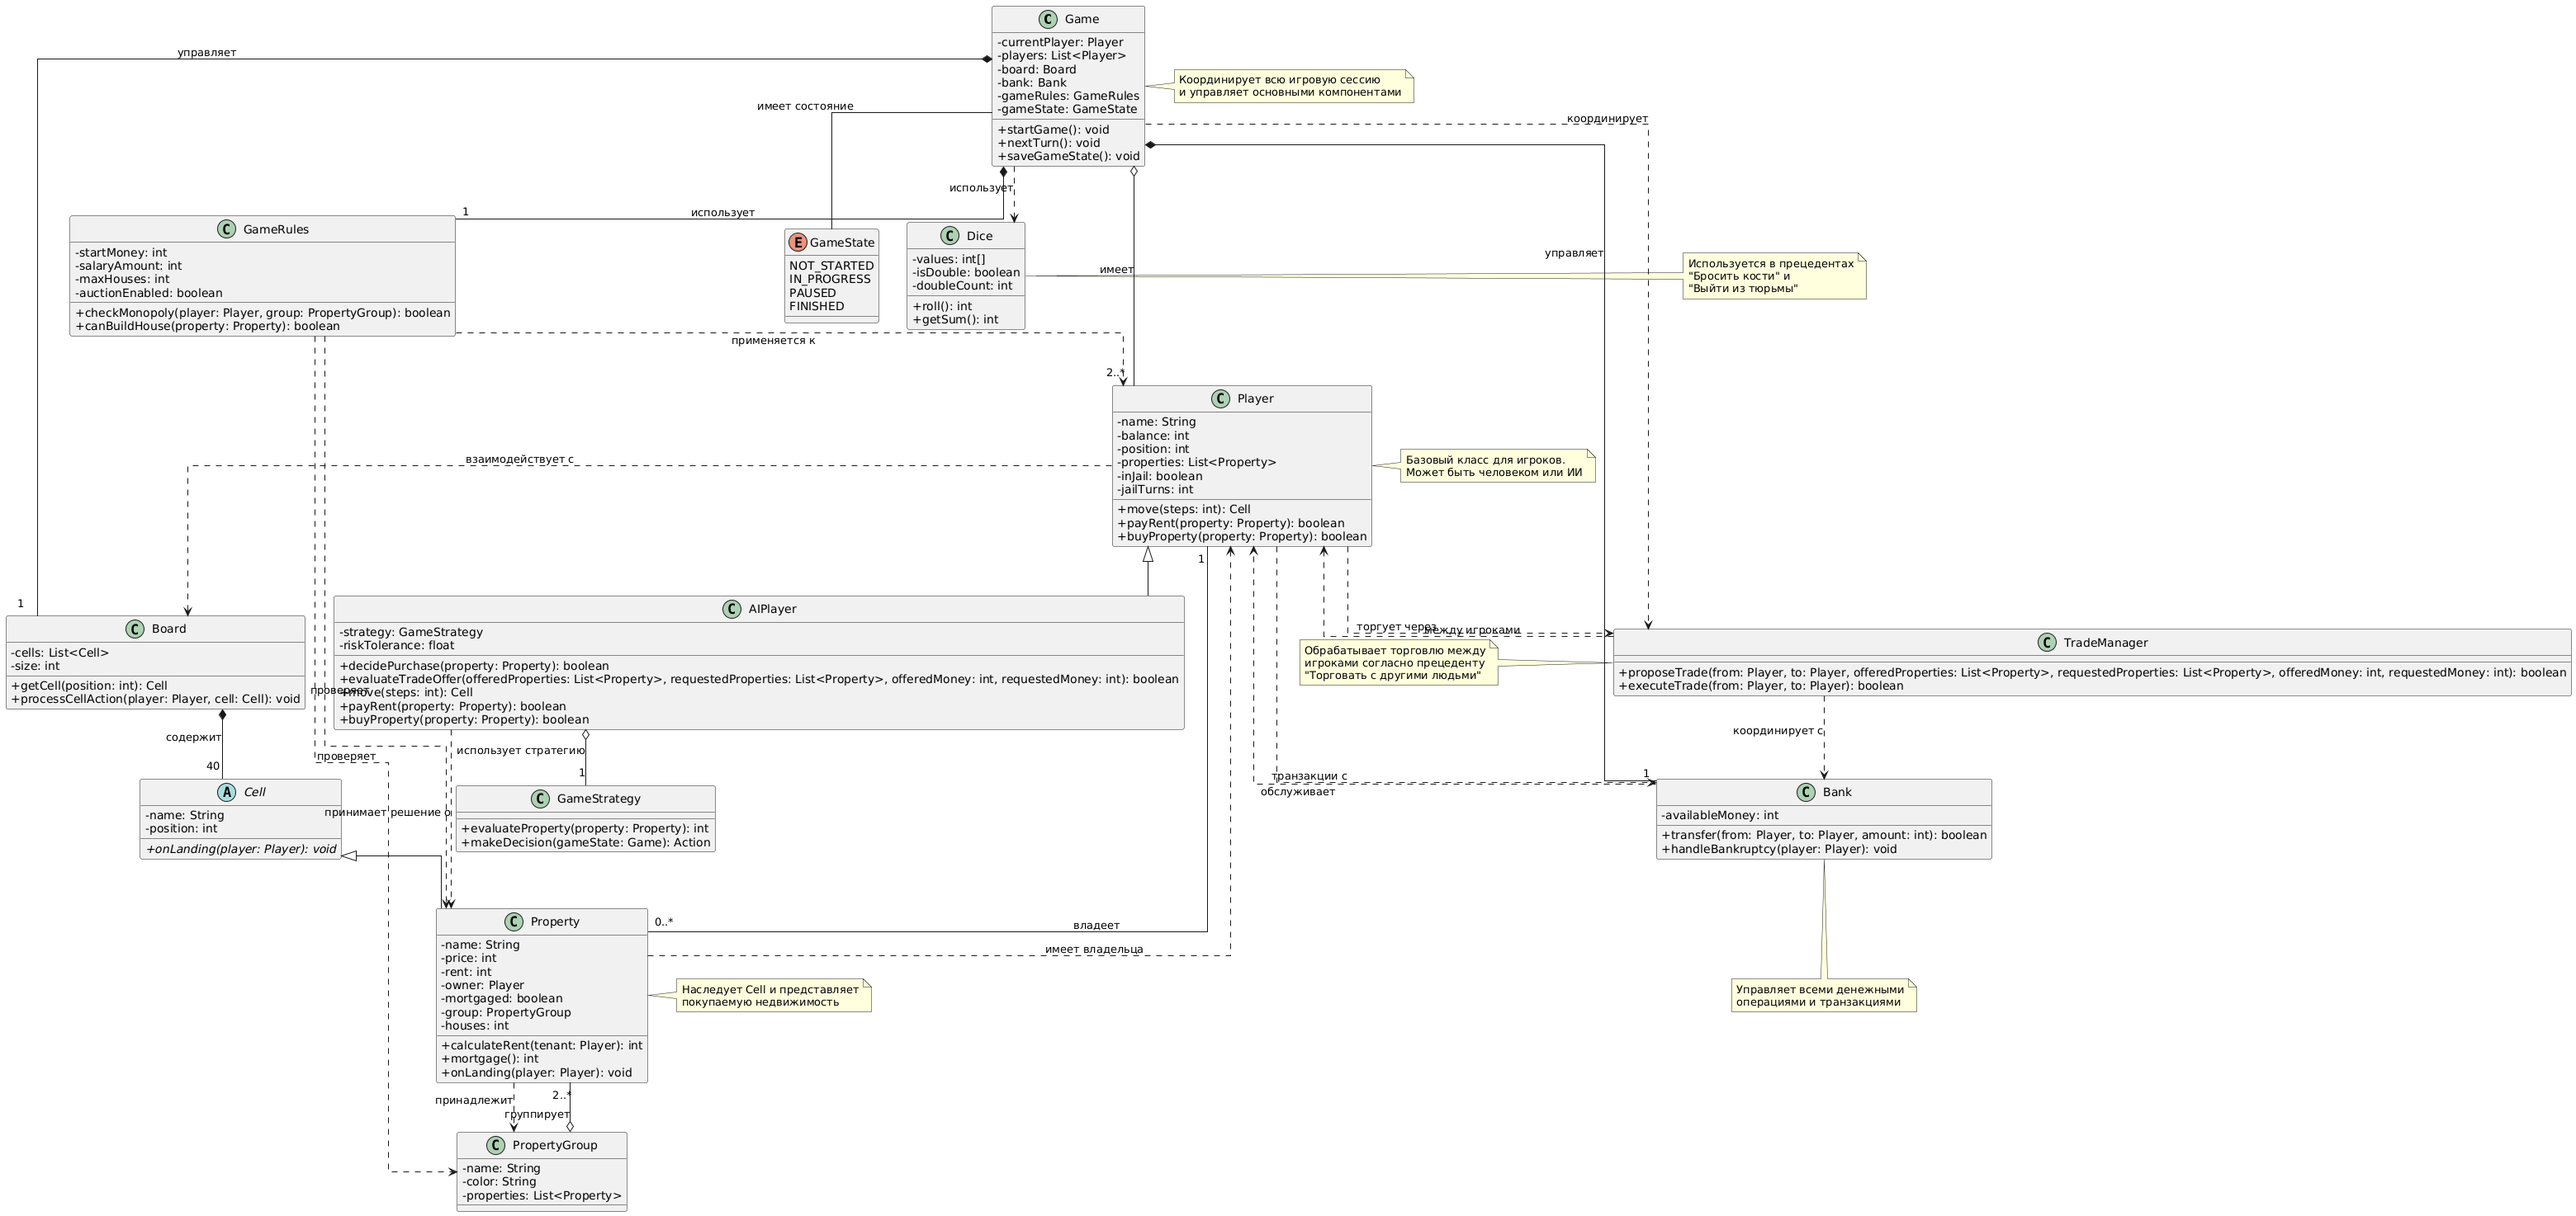
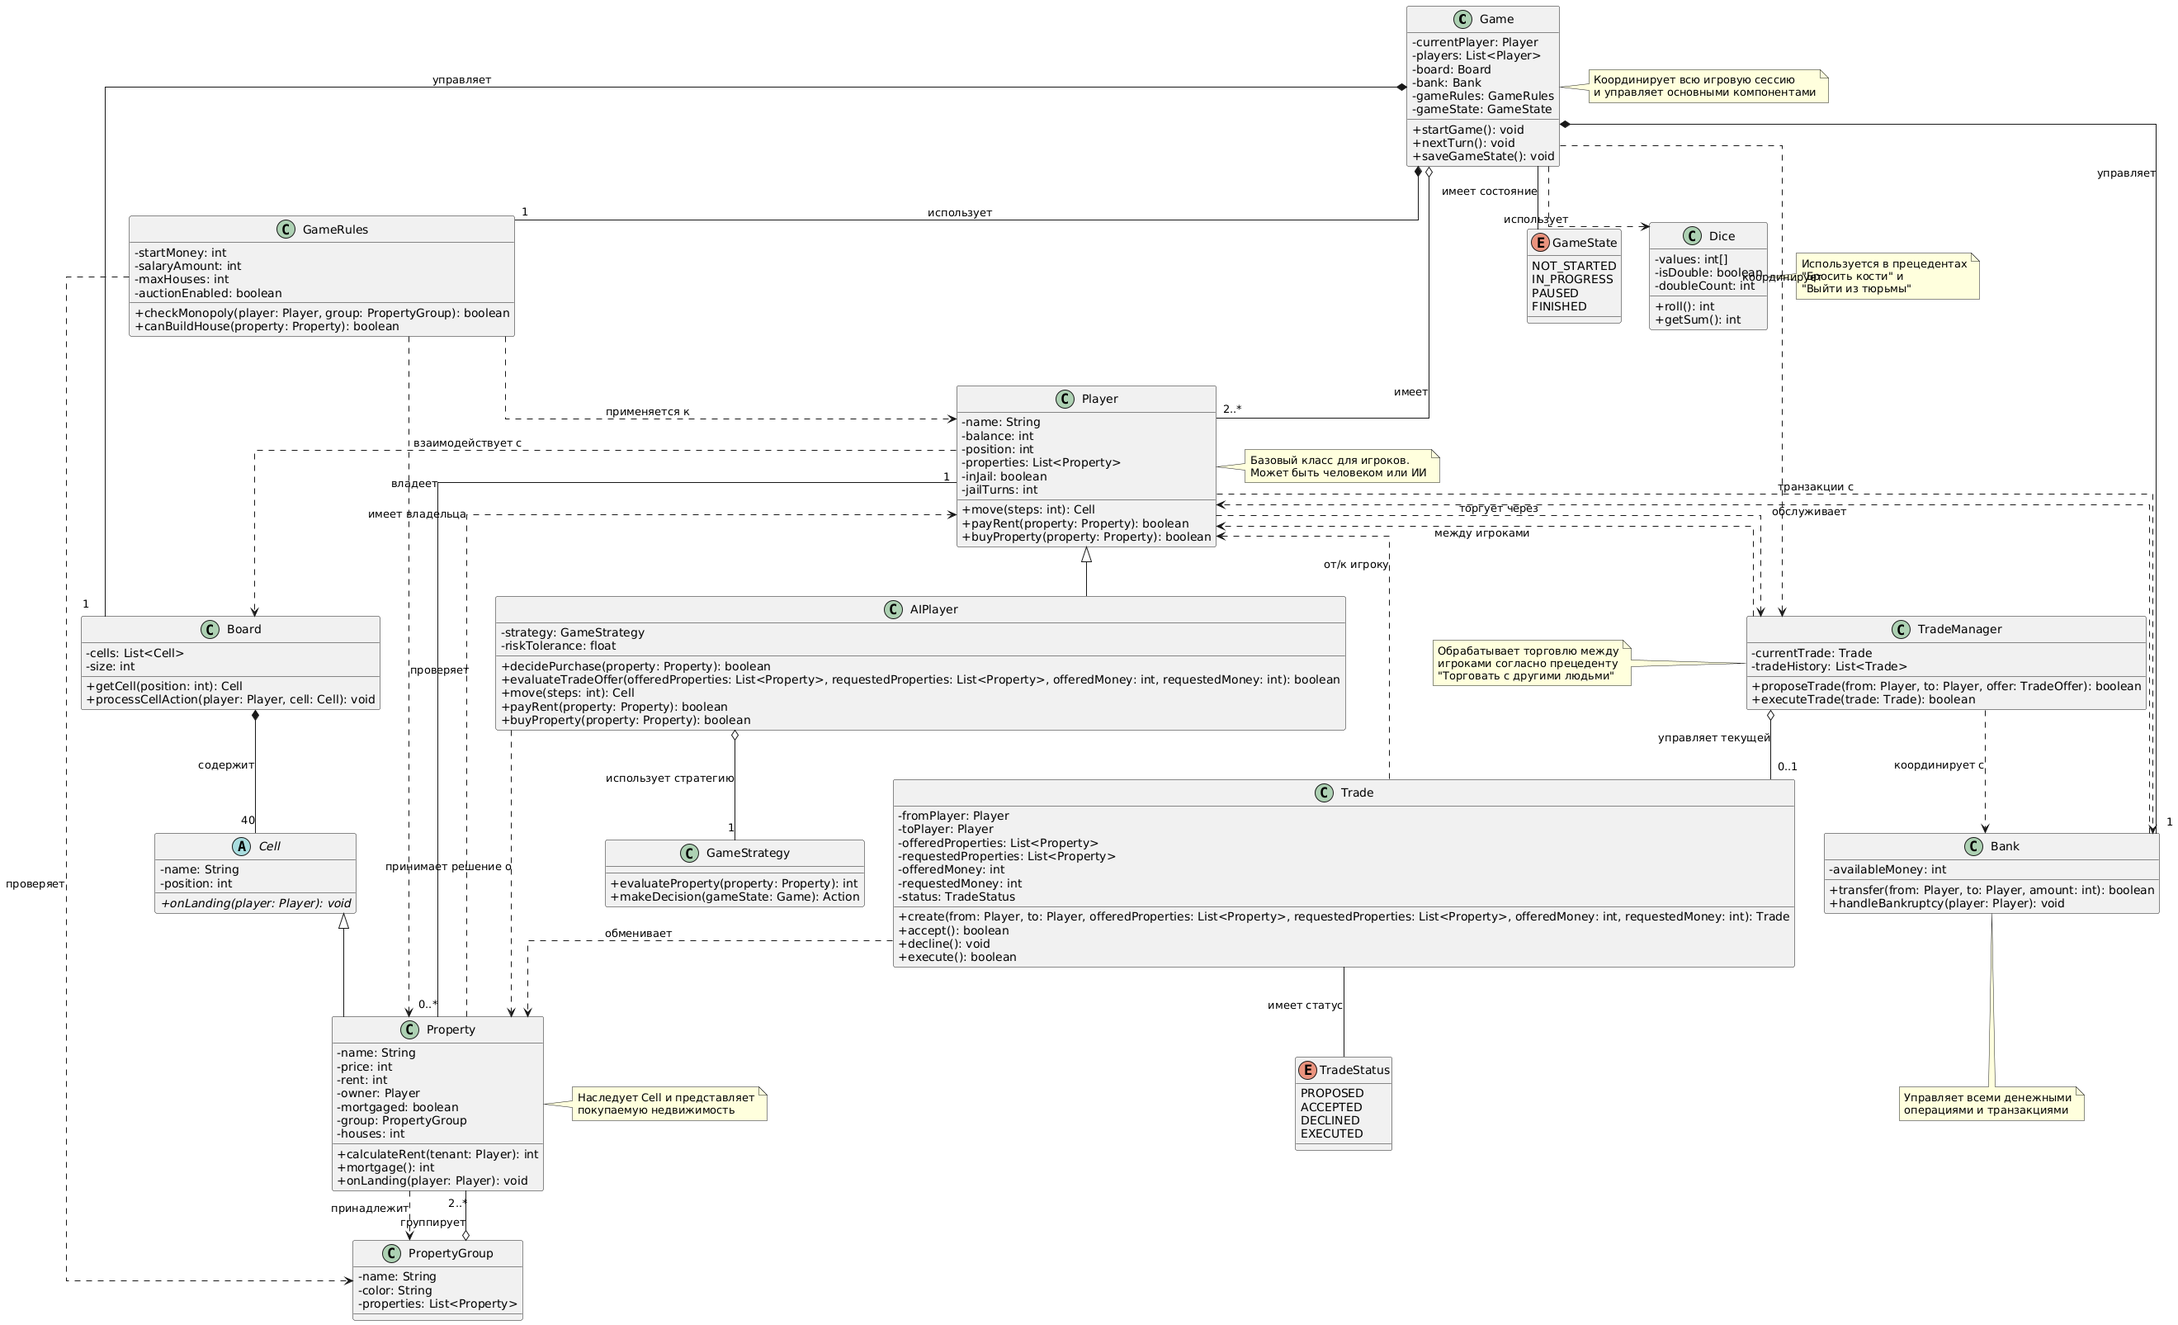
feat: Добавлен класс Trade и обновлен TradeManager

diff --git a/Диаграмма классов.md b/Диаграмма классов.md
@@ -76,9 +76,25 @@ class GameRules {
   + canBuildHouse(property: Property): boolean
 }
 
+class Trade {
+  - fromPlayer: Player
+  - toPlayer: Player
+  - offeredProperties: List<Property>
+  - requestedProperties: List<Property>
+  - offeredMoney: int
+  - requestedMoney: int
+  - status: TradeStatus
+  + create(from: Player, to: Player, offeredProperties: List<Property>, requestedProperties: List<Property>, offeredMoney: int, requestedMoney: int): Trade
+  + accept(): boolean
+  + decline(): void
+  + execute(): boolean
+}
+
 class TradeManager {
-  + proposeTrade(from: Player, to: Player, offeredProperties: List<Property>, requestedProperties: List<Property>, offeredMoney: int, requestedMoney: int): boolean
-  + executeTrade(from: Player, to: Player): boolean
+  - currentTrade: Trade
+  - tradeHistory: List<Trade>
+  + proposeTrade(from: Player, to: Player, offer: TradeOffer): boolean
+  + executeTrade(trade: Trade): boolean
 }
 
 class AIPlayer {
@@ -102,6 +118,13 @@ enum GameState {
   IN_PROGRESS
   PAUSED
   FINISHED
+}
+
+enum TradeStatus {
+  PROPOSED
+  ACCEPTED
+  DECLINED
+  EXECUTED
 }
 
 class GameStrategy {
@@ -134,8 +157,13 @@ GameRules ..> Player : применяется к
 GameRules ..> Property : проверяет
 GameRules ..> PropertyGroup : проверяет
 
+TradeManager o-- "0..1" Trade : управляет текущей
 TradeManager ..> Player : между игроками
 TradeManager ..> Bank : координирует с
+
+Trade ..> Player : от/к игроку
+Trade ..> Property : обменивает
+Trade -- TradeStatus : имеет статус
 
 Player <|-- AIPlayer
 
